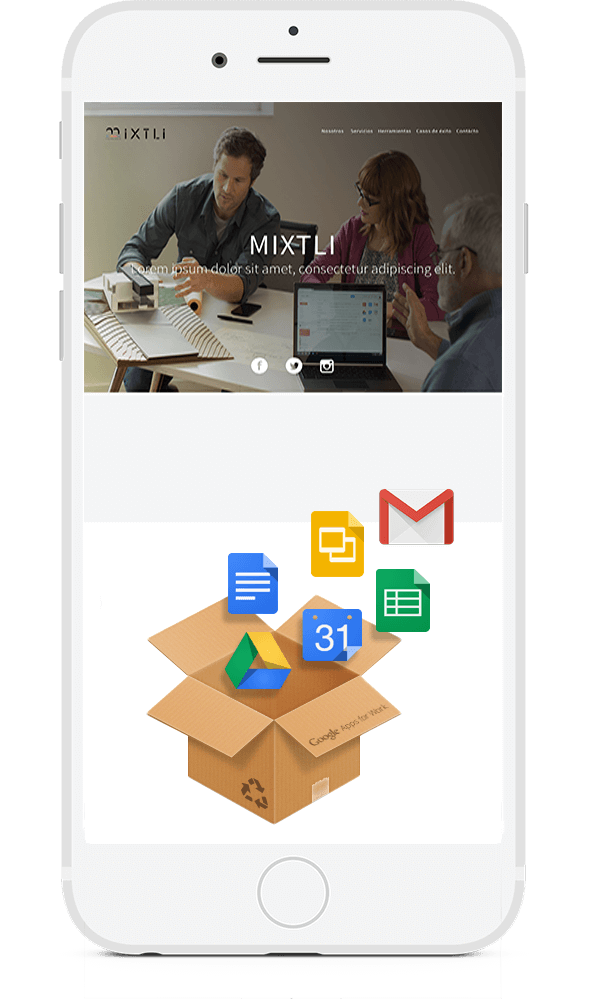
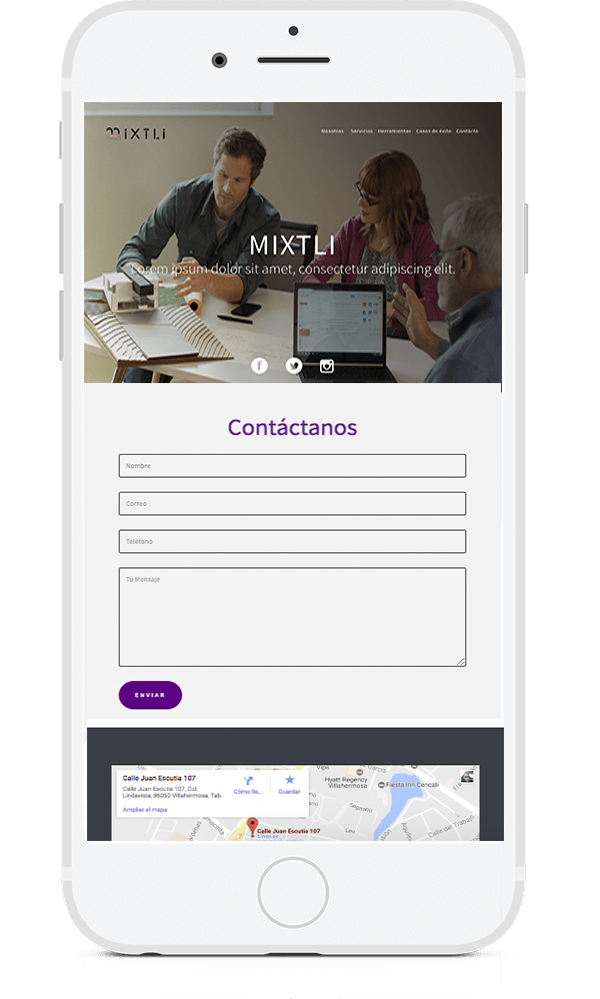
Cambios generales listos

Changed region(s): [[0.12, 0.4655, 0.84, 0.8689], [0.12, 0.3724, 0.84, 0.4344], [0.18, 0.5896, 0.21, 0.6517]]

diff --git a/templates/index.html b/templates/index.html
@@ -121,8 +121,8 @@
 					    			<div class="row text-center">
 						    			<div class="col-md-12 col-sm-6 col-xs-6 col-xxs-12 fh5co-text animate-object features-2-animate-3 servicios-c">
 						    				<span class="fh5co-icon"><img src="images/g_suite.png" class="img-suite-servicio"></span>
-											<h4 class="fh5co-uppercase-sm">G-Suite</h4>
-											<p>Comercialización e implementación de herramientas de Google Suite (G-suite).</p>
+											<h4 class="fh5co-uppercase-sm">G-Suite & Cloud Platform</h4>
+											<p>Comercialización e implementación de herramientas de G-suite y Google Platform.</p>
 										</div>
 										<div class="col-md-12 col-sm-6 col-xs-6 col-xxs-12 fh5co-text animate-object features-2-animate-4 servicios-c">
 											<span class="fh5co-icon"><i class="fa fa-cogs" id="iconos"></i></span>
@@ -339,28 +339,6 @@
 										<p class="nosotros-p">Empodere a sus empleados en cualquier lugar para que colaboren y desarrollen productos y servicios que triunfen en el mercado donde se encuentre.</p>
 									</div>
 								</div>								
-								<div class="col-md-12">
-									<div class="col-md-6 video-m">
-										<h3 class="nosotros-t">Ejecute una idea rápidamente</h3>
-										<p class="nosotros-p">Vea como su equipo puede trabajar en conjunto independientemente de su ubicación e idioma.</p>
-									</div>						
-									<div class="col-md-6 video-m">
-										<div class="resp-video" style="padding-top: 56.25%;">
-											<iframe class="contenedor-video-src" src="https://www.youtube.com/embed/vNJUL92y9wo" frameborder="0" allowfullscreen ></iframe>
-										</div>
-									</div>
-								</div>
-								<div class="col-md-12">								
-									<div class="col-md-6 video-m">
-										<div class="resp-video" style="padding-top: 56.25%;">
-											<iframe class="contenedor-video-src" src="https://www.youtube.com/embed/YQNX45NmD90" frameborder="0" allowfullscreen ></iframe>
-										</div>
-									</div>
-									<div class="col-md-6 video-m">
-										<h3 class="nosotros-t">Una forma más eficaz de trabajar</h3>
-										<p class="nosotros-p">Correo electrónico, calendario y documentos basados en la Web que le permiten trabajar en cualquier lugar.</p>
-									</div>
-								</div>	
 							</div>
 						</div>
 					</div>

diff --git a/static/css/style.css b/static/css/style.css
@@ -7515,7 +7515,8 @@ h1, h2, h3, h4, h5, h6 {
   font-weight: 400;
   font-size: 35px;
   line-height: 40px;
-  text-shadow: rgba(0,0,0,.3) 0px 0px 10px;
+  color: #ffffff;
+  text-shadow: rgba(0,0,0,.8) 0px 0px 20px;
 }
 
 #fh5co-info-colaborativa{
@@ -8193,7 +8194,7 @@ h1, h2, h3, h4, h5, h6 {
   color: #4fd2c2;
 }
 .img-suite-servicio{
-  width: 120px;
+  width: 70px;
 }
 @media screen and (max-width: 1200px) {
   #fh5co-features-2 .fh5co-text-wrap {
